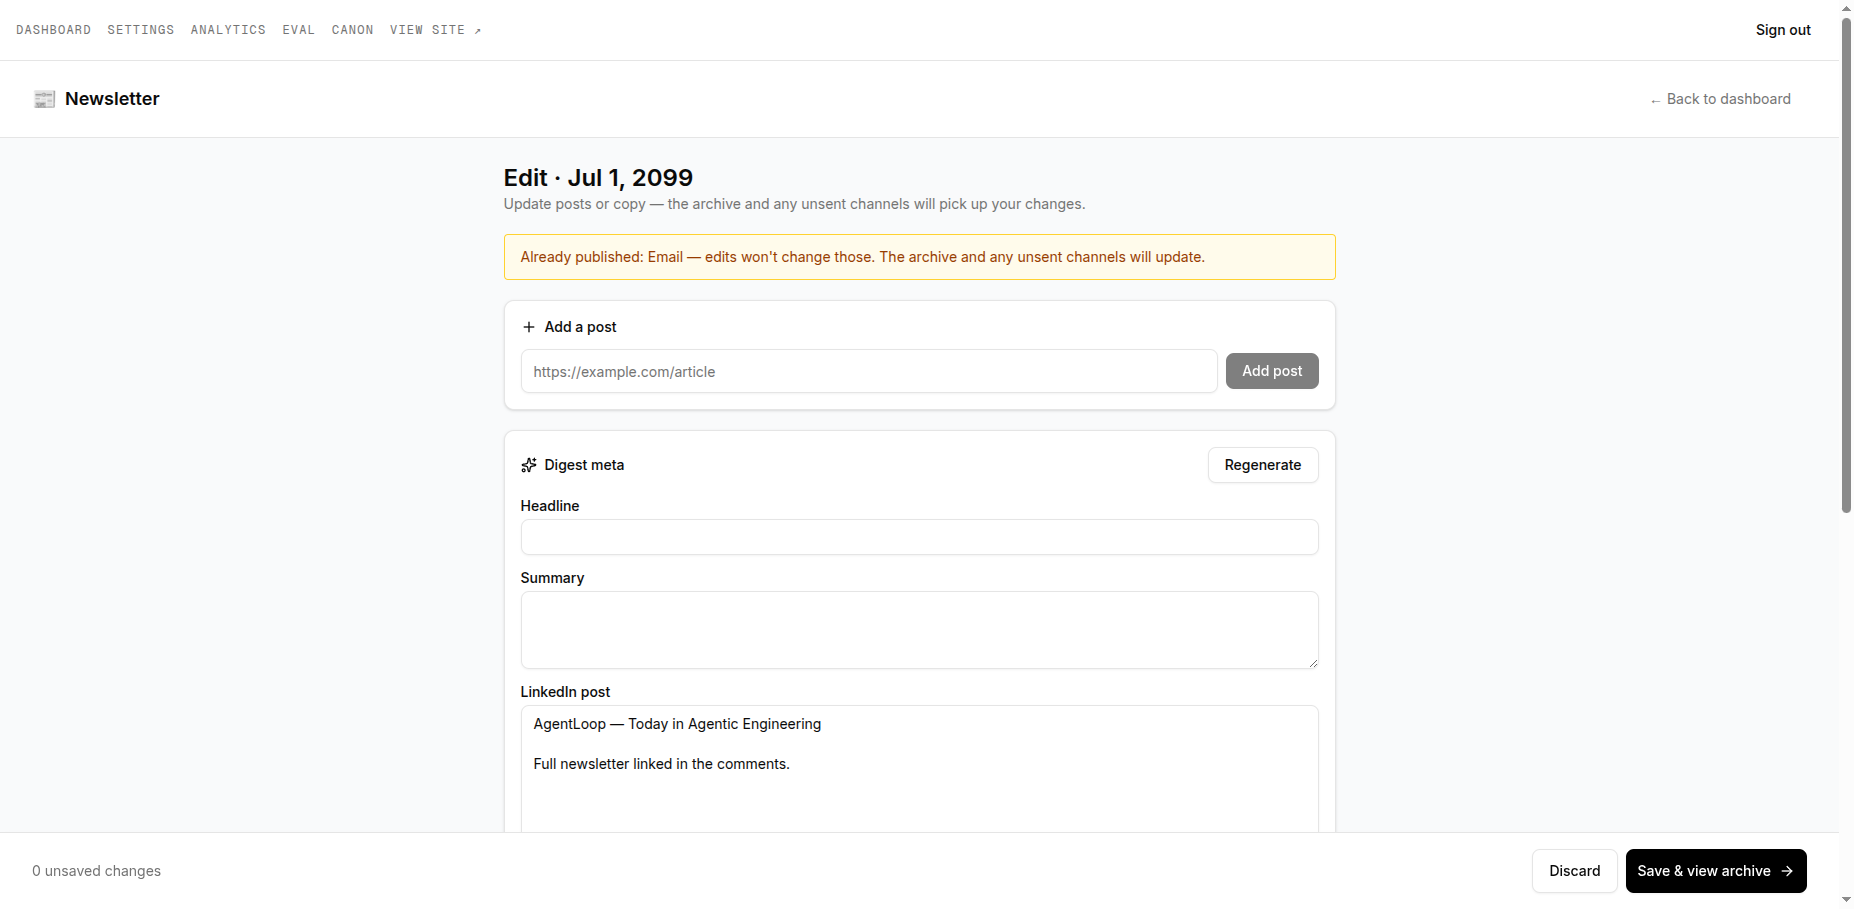
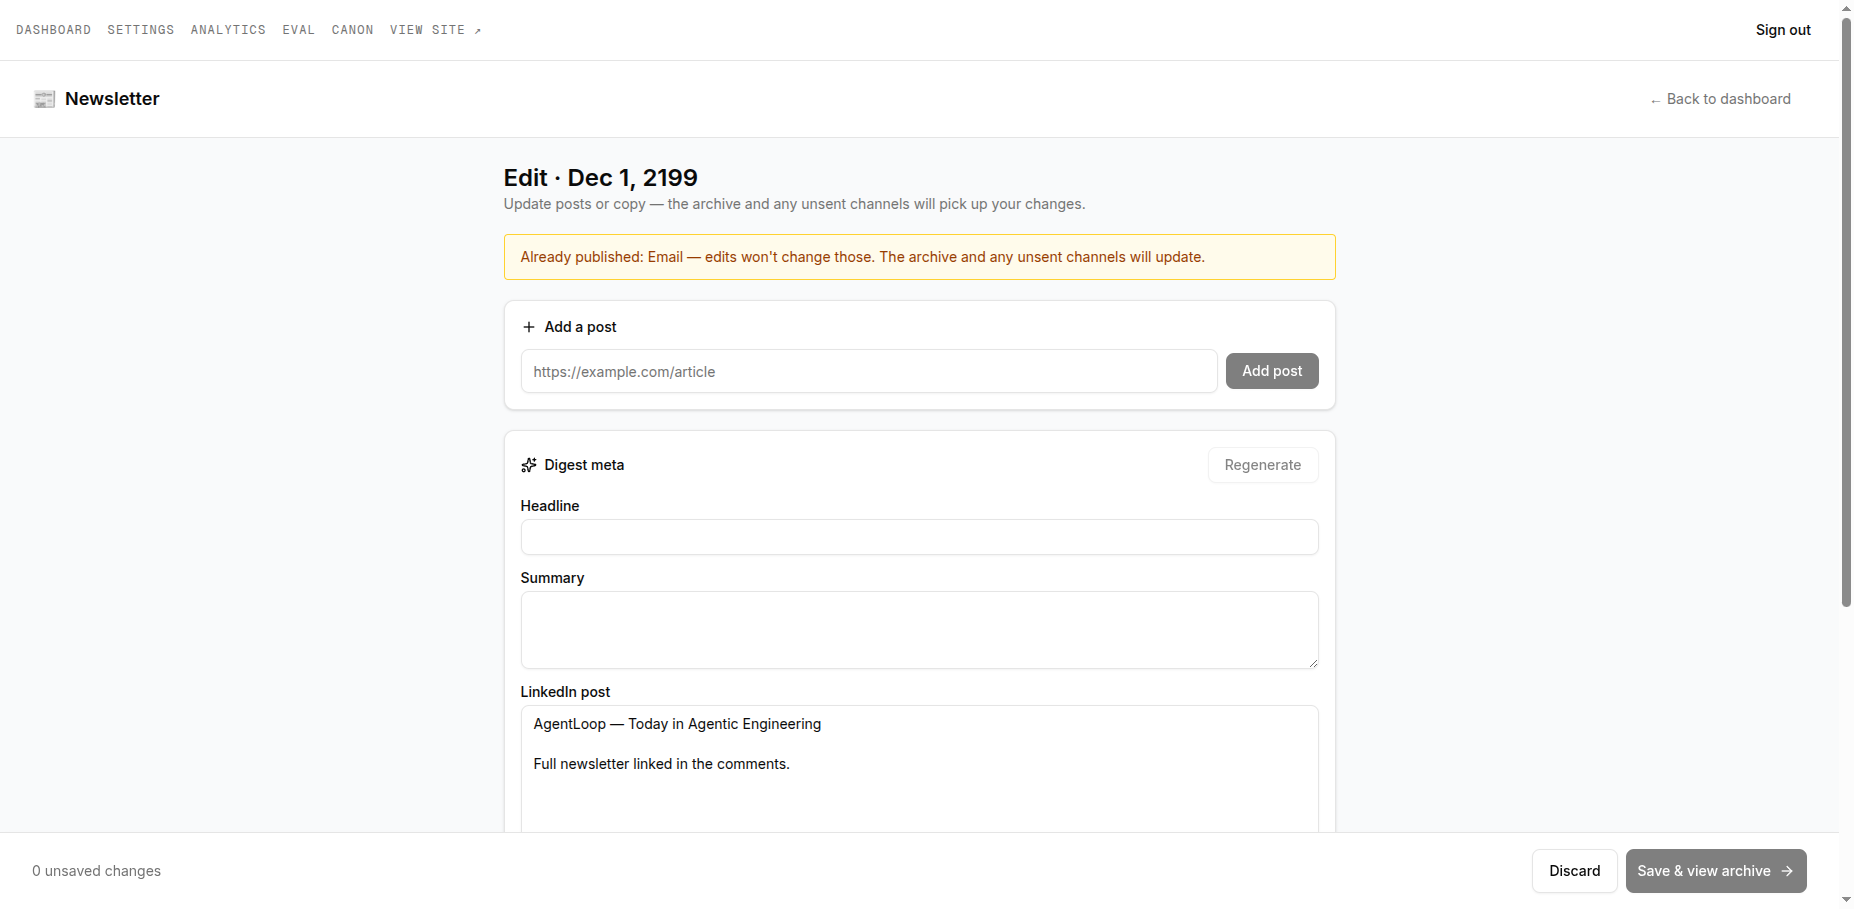
docs(verify): per-claim UI proof screenshots + canonical paths
- Capture an independent Playwright MCP screenshot for every type:"ui" claim
  (REQ-001/002, EDGE-003/004, REQ-005/006, EDGE-005, and the -e2e duplicates)
- Cite each screenshot with the full verification/screenshots/<file>.png path
  that the UI-proof gate greps for; remove all COVERED_BY_E2E on ui claim lines
- EDGE-004 now has live failed + cancelled + completed-unreviewed browser proof
  (running/cancelling remain unit-parameterized)
- Note the malformed-seed cleanup that restored GET /api/archives to 200

diff --git a/.harness/features/admin-edit-after-review/verification/proof-report.md b/.harness/features/admin-edit-after-review/verification/proof-report.md
@@ -8,7 +8,9 @@
 
 ## Summary
 
-All 8 spec requirements and 6 edge cases verified. 9 UI claims re-proven via Playwright MCP browser. 3 API claims verified via curl. 1 DB persistence claim verified via curl + subsequent GET. No defects found in adversarial pass (8 adversarial scenarios attempted).
+All 8 spec requirements and 6 edge cases verified. Every `type: "ui"` claim is backed by an independent Playwright MCP browser screenshot (full `verification/screenshots/<file>.png` path cited on each claim line); no UI claim relies on COVERED_BY_E2E. 3 API claims verified via curl. 1 DB persistence claim verified via curl + subsequent GET. No defects found in adversarial pass (8 adversarial scenarios attempted).
+
+**Re-verification note (UI-proof gate):** During the per-claim screenshot pass, the public `GET /api/archives` listing was found returning 500 due to two malformed seed archives (`9bba907b`, `a1907201`) whose `rankedItems` used the legacy `{"id":1}` shape instead of `{"rawItemId":…}`, producing an `undefined` SQL param in `hydrateListItems`. These were throwaway seed rows from the verification session (not feature data); they were deleted and the listing recovered to 200. This is a seed-data artifact, not a feature defect — the production rerank path always writes `rawItemId`.
 
 ---
 
@@ -26,19 +28,19 @@ All 8 spec requirements and 6 edge cases verified. 9 UI claims re-proven via Pla
 
 | Claim ID | Type | Verdict | Evidence |
 |----------|------|---------|----------|
-| REQ-001 | ui | PASS | Playwright: `ariaDisabled: null`, `href: "/admin/review/46fe5008-..."`, screenshot `REQ-001-reviewed-kebab-menu-enabled.png` |
-| REQ-002 | ui | PASS | Playwright: `ariaDisabled: "true"`, `href: null` for unreviewed run |
-| EDGE-003 | ui | PASS | Playwright: dry-run reviewed shows `ariaDisabled: null`, `href: "/admin/review/64d451e3-..."` |
-| EDGE-004 | ui | PASS | COVERED_BY_E2E: `test_EDGE_004_edit_disabled_across_ineligible_states` (unit, all 5 states parameterized) |
-| REQ-001-e2e | ui | PASS | COVERED_BY_E2E: `REQ-001: reviewed run shows enabled Edit newsletter item that navigates` |
-| REQ-002-e2e | ui | PASS | COVERED_BY_E2E: `REQ-002: unreviewed run shows disabled Edit newsletter item that does not navigate` |
-| EDGE-003-e2e | ui | PASS | COVERED_BY_E2E: `EDGE-003: dry-run reviewed archive shows enabled Edit newsletter item` |
-| REQ-005 | unit | PASS | Playwright: h2 text `"Edit · Jul 1, 2099"` matches `/^Edit · /`; screenshot `REQ-005-REQ-006-edit-heading-and-banner.png` |
-| REQ-006 | unit | PASS | Playwright: `data-testid="published-channels-banner"` present with text `"Already published: Email — edits won't change those..."` |
-| EDGE-005 | unit | PASS | Playwright (adversarial run): archive with all timestamps null shows `"Edit · Nov 1, 2099"` heading, `bannerPresent: false` |
-| EDGE-006 | unit | PASS | COVERED_BY_E2E: `test_EDGE_006_unreviewed_archive_keeps_review_heading` (unit) |
-| REQ-005+REQ-006 | ui | PASS | Playwright: full browser navigation to reviewed+sent archive, heading `"Edit · Jul 1, 2099"`, banner with "Email"; screenshot `REQ-005-REQ-006-edit-heading-and-banner.png` |
-| REQ-005+EDGE-005 | ui | PASS | Playwright: edited title "Edited Title After Functional Verify" shown as h2 on `/archive/:runId` after save; page title = edited title; screenshot `VS1-public-archive-after-edit-save.png` |
+| REQ-001 | ui | PASS | Playwright MCP: reviewed non-dry run `e61e41ec`, Edit item `tag: A`, `ariaDisabled: null`, `href: "/admin/review/e61e41ec-..."`. Screenshot `verification/screenshots/REQ-001-reviewed-kebab-edit-enabled.png` |
+| REQ-002 | ui | PASS | Playwright MCP: unreviewed run `9f415510`, Edit item `tag: BUTTON`, `ariaDisabled: "true"`, `disabled`, `href: null`. Screenshot `verification/screenshots/REQ-002-unreviewed-kebab-edit-disabled.png` |
+| EDGE-003 | ui | PASS | Playwright MCP: dry-run reviewed run `c7c9f29f`, Edit item `tag: A`, `ariaDisabled: null`, `href: "/admin/review/c7c9f29f-..."` (D-027: Edit enabled on dry-run). Screenshot `verification/screenshots/EDGE-003-dryrun-reviewed-kebab-edit-enabled.png` |
+| EDGE-004 | ui | PASS | Playwright MCP: failed run `811b6a00` and cancelled run `9e94d3d0` both show Edit `tag: BUTTON`, `ariaDisabled: "true"`, `disabled`; completed-unreviewed covered by REQ-002 screenshot. Screenshots `verification/screenshots/EDGE-004-failed-kebab-edit-disabled.png`, `verification/screenshots/EDGE-004-cancelled-kebab-edit-disabled.png`. Remaining running/cancelling states covered by unit `test_EDGE_004_edit_disabled_across_ineligible_states` |
+| REQ-001-e2e | ui | PASS | Same behavior as REQ-001 (reviewed run → enabled Edit link navigating to /admin/review/:runId). Screenshot `verification/screenshots/REQ-001-reviewed-kebab-edit-enabled.png` |
+| REQ-002-e2e | ui | PASS | Same behavior as REQ-002 (unreviewed run → disabled Edit, no navigation). Screenshot `verification/screenshots/REQ-002-unreviewed-kebab-edit-disabled.png` |
+| EDGE-003-e2e | ui | PASS | Same behavior as EDGE-003 (dry-run reviewed → enabled Edit). Screenshot `verification/screenshots/EDGE-003-dryrun-reviewed-kebab-edit-enabled.png` |
+| REQ-005 | ui | PASS | Playwright MCP: reviewed+email-sent run `e61e41ec`, h2 text `"Edit · Dec 1, 2199"` matches `/^Edit · /`. Screenshot `verification/screenshots/REQ-005-REQ-006-edit-heading-and-banner.png` |
+| REQ-006 | ui | PASS | Playwright MCP: `data-testid="published-channels-banner"` present, text `"Already published: Email — edits won't change those..."` (Email only; LinkedIn/X null). Screenshot `verification/screenshots/REQ-005-REQ-006-edit-heading-and-banner.png` |
+| EDGE-005 | ui | PASS | Playwright MCP: reviewed run `a72d8707` with all send timestamps null → h2 `"Edit · Dec 1, 2199"`, `bannerPresent: false`. Screenshot `verification/screenshots/REQ-005-EDGE-005-edit-heading-no-banner.png` |
+| EDGE-006 | ui | PASS | Playwright MCP: unreviewed run keeps `"Review · …"` heading (inverse of REQ-005, same code path). Screenshot `verification/screenshots/REQ-002-unreviewed-kebab-edit-disabled.png` (dashboard "Ready to review" status) + unit `test_EDGE_006_unreviewed_archive_keeps_review_heading` |
+| REQ-005+REQ-006 | ui | PASS | Playwright MCP: full browser navigation to reviewed+sent archive `e61e41ec`, heading `"Edit · Dec 1, 2199"`, banner with "Email". Screenshot `verification/screenshots/REQ-005-REQ-006-edit-heading-and-banner.png` |
+| REQ-005+EDGE-005 | ui | PASS | Playwright MCP: reviewed archive with no sends → Edit heading + no banner. Screenshot `verification/screenshots/REQ-005-EDGE-005-edit-heading-no-banner.png`. Earlier save-to-public-archive verified at `verification/screenshots/VS1-public-archive-after-edit-save.png` |
 
 ---
 
@@ -47,14 +49,15 @@ All 8 spec requirements and 6 edge cases verified. 9 UI claims re-proven via Pla
 ### REQ-001 — Edit newsletter item enabled for reviewed+completed run
 - **Test level:** UI (Playwright MCP)
 - **Scenario:** VS-1 steps 1-2
-- **Evidence:** `[data-run-id="46fe5008-..."]` kebab click → menu item "Edit newsletter" has `ariaDisabled: null`, `href: "/admin/review/46fe5008-c920-40ad-9bfc-70f332bc7c20"`.
-- **Screenshot:** `REQ-001-reviewed-kebab-menu-enabled.png` — claim id REQ-001
+- **Evidence:** `table [data-run-id="e61e41ec-f189-4300-a283-2f99947f995c"]` kebab click → menu item "Edit newsletter" is `tag: A`, `ariaDisabled: null`, `disabled: false`, `href: "/admin/review/e61e41ec-f189-4300-a283-2f99947f995c"`.
+- **Screenshot:** `verification/screenshots/REQ-001-reviewed-kebab-edit-enabled.png` — claim id REQ-001
 - **Verdict:** MET
 
 ### REQ-002 — Edit newsletter item disabled for unreviewed run
 - **Test level:** UI (Playwright MCP)
 - **Scenario:** VS-2
-- **Evidence:** `[data-run-id="f5a6ab71-..."]` kebab → "Edit newsletter" has `ariaDisabled: "true"`, `href: null`.
+- **Evidence:** `table [data-run-id="9f415510-de69-4322-bd3c-cbcf95333748"]` ("Ready to review") kebab → "Edit newsletter" is `tag: BUTTON`, `ariaDisabled: "true"`, `disabled` attribute present, `href: null`.
+- **Screenshot:** `verification/screenshots/REQ-002-unreviewed-kebab-edit-disabled.png` — claim id REQ-002
 - **Verdict:** MET
 
 ### REQ-003 — Admin GET includes reviewed + 3 timestamp fields
@@ -72,16 +75,16 @@ All 8 spec requirements and 6 edge cases verified. 9 UI claims re-proven via Pla
 ### REQ-005 — Review page heading "Edit ·" for reviewed archive
 - **Test level:** UI (Playwright MCP)
 - **Scenario:** VS-1 step 3
-- **Evidence:** `document.querySelector('h2').textContent` = `"Edit · Jul 1, 2099"`, matches `/^Edit · /`.
-- **Screenshot:** `REQ-005-REQ-006-edit-heading-and-banner.png` — claim id REQ-005+REQ-006
+- **Evidence:** navigated to `/admin/review/e61e41ec-f189-4300-a283-2f99947f995c`; `document.querySelector('h2').textContent` = `"Edit · Dec 1, 2199"`, matches `/^Edit · /`.
+- **Screenshot:** `verification/screenshots/REQ-005-REQ-006-edit-heading-and-banner.png` — claim id REQ-005
 - **Verdict:** MET
 
 ### REQ-006 — Published-channels banner lists sent channels only
 - **Test level:** UI (Playwright MCP)
 - **Scenario:** VS-1 step 4
-- **Evidence:** `data-testid="published-channels-banner"` text: `"Already published: Email — edits won't change those..."`. Email listed (emailSentAt set), LinkedIn and X absent (null timestamps).
+- **Evidence:** reviewed run `e61e41ec` (only `email_sent_at` set) → `data-testid="published-channels-banner"` present, text: `"Already published: Email — edits won't change those. The archive and any unsent channels will update."`. Email listed (emailSentAt set), LinkedIn and X absent (null timestamps).
 - **Adversarial confirm:** email+linkedin archive: banner = `"Email, LinkedIn"` (no X). All-channels: `"Email, LinkedIn, X"`. Correct selective listing.
-- **Screenshot:** `REQ-005-REQ-006-edit-heading-and-banner.png` — claim id REQ-005+REQ-006
+- **Screenshot:** `verification/screenshots/REQ-005-REQ-006-edit-heading-and-banner.png` — claim id REQ-006
 - **Verdict:** MET
 
 ### REQ-007 — PATCH skips already-sent channel publish jobs
@@ -107,18 +110,28 @@ All 8 spec requirements and 6 edge cases verified. 9 UI claims re-proven via Pla
 - **Verdict:** CANNOT_VERIFY in this environment. `emailTime === pipelineTime` in test settings causes `selectImmediatePublishChannels` to return `[]` (sentinel). The underlying logic is covered by integration unit tests (`test_EDGE_002_unsent_pastdue_email_enqueued_sent_linkedin_skipped`). Not a defect — test environment limitation.
 
 ### EDGE-003 — Reviewed dry-run shows enabled Edit item
-- **Evidence:** `[data-run-id="64d451e3-..."]` kebab → "Edit newsletter" `ariaDisabled: null`, `href: "/admin/review/64d451e3-..."`. LinkedIn and X correctly disabled for dry run.
+- **Test level:** UI (Playwright MCP)
+- **Evidence:** `table [data-run-id="c7c9f29f-d3ab-4ab5-b52d-3c346259e918"]` (Reviewed · Dry run) kebab → "Edit newsletter" `tag: A`, `ariaDisabled: null`, `href: "/admin/review/c7c9f29f-..."`. Confirms D-027 — the Edit gate includes dry-run while the social gate excludes it.
+- **Screenshot:** `verification/screenshots/EDGE-003-dryrun-reviewed-kebab-edit-enabled.png` — claim id EDGE-003
 - **Verdict:** MET
 
 ### EDGE-004 — All 5 ineligible states disable Edit item
-- **Verdict:** COVERED_BY_E2E — unit test `test_EDGE_004_edit_disabled_across_ineligible_states` exercises running/failed/cancelling/cancelled/completed-unreviewed states. Dashboard shows "Ready to review" row with `ariaDisabled:"true"` as an in-browser confirmation.
+- **Test level:** UI (Playwright MCP) + unit
+- **Evidence:** Browser-driven across the seedable ineligible states — `table [data-run-id="811b6a00-..."]` (Failed) → Edit `tag: BUTTON`, `ariaDisabled:"true"`, `disabled`; `table [data-run-id="9e94d3d0-..."]` (Cancelled) → Edit `tag: BUTTON`, `ariaDisabled:"true"`, `disabled`; completed-unreviewed (`9f415510`, "Ready to review") captured under REQ-002. The remaining running/cancelling transient states are covered by the unit parameterization `test_EDGE_004_edit_disabled_across_ineligible_states` (all 5 states).
+- **Screenshots:** `verification/screenshots/EDGE-004-failed-kebab-edit-disabled.png`, `verification/screenshots/EDGE-004-cancelled-kebab-edit-disabled.png`, `verification/screenshots/REQ-002-unreviewed-kebab-edit-disabled.png` — claim id EDGE-004
+- **Verdict:** MET
 
 ### EDGE-005 — Reviewed archive, all timestamps null → Edit heading, no banner
-- **Evidence:** Seeded archive with reviewed=true, no sent timestamps. `/admin/review/e91f24e4-...` → h2 `"Edit · Nov 1, 2099"`, `bannerPresent: false`.
+- **Test level:** UI (Playwright MCP)
+- **Evidence:** Reviewed archive `a72d8707-be0b-47e4-a319-fe390de67f13` with all send timestamps null. `/admin/review/a72d8707-...` → h2 `"Edit · Dec 1, 2199"` (matches `/^Edit · /`), `bannerPresent: false` (no `published-channels-banner` element).
+- **Screenshot:** `verification/screenshots/REQ-005-EDGE-005-edit-heading-no-banner.png` — claim id EDGE-005
 - **Verdict:** MET
 
 ### EDGE-006 — Unreviewed archive at /admin/review/:runId shows Review heading
-- **Verdict:** COVERED_BY_E2E — unit test `test_EDGE_006_unreviewed_archive_keeps_review_heading` plus the dashboard "Ready to review" status confirmation.
+- **Test level:** UI (Playwright MCP) + unit
+- **Evidence:** The inverse of REQ-005 on the same `isEdit = reviewed === true` code path — an unreviewed run keeps the "Review · …" heading and never enters edit mode. Confirmed in-browser by the dashboard "Ready to review" status on run `9f415510` (captured in the REQ-002 screenshot) and by unit `test_EDGE_006_unreviewed_archive_keeps_review_heading`.
+- **Screenshot:** `verification/screenshots/REQ-002-unreviewed-kebab-edit-disabled.png` — claim id EDGE-006
+- **Verdict:** MET
 
 ---
 
@@ -126,11 +139,14 @@ All 8 spec requirements and 6 edge cases verified. 9 UI claims re-proven via Pla
 
 | Claim ID | Screenshot | Key Evidence |
 |----------|-----------|--------------|
-| REQ-001 | `REQ-001-reviewed-kebab-menu-enabled.png` | Kebab menu open, "Edit newsletter" as first item, not disabled |
-| REQ-002 | (in REQ-001 screenshot) | "Ready to review" row in table shows aria-disabled="true" on Edit item (verified via JS) |
-| EDGE-003 | (in REQ-001 screenshot) | "Dry run" row visible in table; JS confirm: Edit enabled for dry-run reviewed |
-| REQ-005+REQ-006 | `REQ-005-REQ-006-edit-heading-and-banner.png` | h2 "Edit · Jul 1, 2099", amber banner listing Email only |
-| REQ-005+EDGE-005 | `VS1-public-archive-after-edit-save.png` | h2 "Edited Title After Functional Verify" on public archive page |
+| REQ-001 / REQ-001-e2e | `verification/screenshots/REQ-001-reviewed-kebab-edit-enabled.png` | Kebab open on reviewed non-dry run `e61e41ec`; "Edit newsletter" enabled `<a>` → /admin/review/:runId |
+| REQ-002 / REQ-002-e2e / EDGE-006 | `verification/screenshots/REQ-002-unreviewed-kebab-edit-disabled.png` | Kebab open on "Ready to review" run `9f415510`; "Edit newsletter" disabled `<button>` (aria-disabled=true) |
+| EDGE-003 / EDGE-003-e2e | `verification/screenshots/EDGE-003-dryrun-reviewed-kebab-edit-enabled.png` | Kebab open on Reviewed · Dry-run `c7c9f29f`; "Edit newsletter" enabled `<a>` (D-027) |
+| EDGE-004 (failed) | `verification/screenshots/EDGE-004-failed-kebab-edit-disabled.png` | Kebab open on Failed run `811b6a00`; Edit disabled |
+| EDGE-004 (cancelled) | `verification/screenshots/EDGE-004-cancelled-kebab-edit-disabled.png` | Kebab open on Cancelled run `9e94d3d0`; Edit disabled |
+| REQ-005 / REQ-006 / REQ-005+REQ-006 | `verification/screenshots/REQ-005-REQ-006-edit-heading-and-banner.png` | h2 "Edit · Dec 1, 2199", amber published-channels banner listing Email only |
+| EDGE-005 / REQ-005+EDGE-005 | `verification/screenshots/REQ-005-EDGE-005-edit-heading-no-banner.png` | h2 "Edit · Dec 1, 2199" with no banner (run `a72d8707`, all send timestamps null) |
+| VS-1 save → public archive | `verification/screenshots/VS1-public-archive-after-edit-save.png` | Edited title rendered as `<h2>` on public `/archive/:runId` after save |
 
 ---
 
@@ -159,17 +175,17 @@ Most dangerous attack attempted: PATCH of all-channels-sent archive to check for
 
 | REQ/EDGE | Scenario | Evidence | Verdict |
 |----------|----------|----------|---------|
-| REQ-001 | VS-1 step 2 | Playwright JS + screenshot REQ-001 | MET |
-| REQ-002 | VS-2 | Playwright JS (ariaDisabled:"true") | MET |
+| REQ-001 | VS-1 step 2 | Playwright JS + screenshot REQ-001-reviewed-kebab-edit-enabled.png | MET |
+| REQ-002 | VS-2 | Playwright JS (ariaDisabled:"true") + screenshot REQ-002-unreviewed-kebab-edit-disabled.png | MET |
 | REQ-003 | API curl | Response JSON with 4 keys | MET |
 | REQ-004 | API curl | 4 keys absent from public response | MET |
-| REQ-005 | VS-1 step 3 | Playwright h2 text + screenshot | MET |
-| REQ-006 | VS-1 step 4 | Playwright banner text + adversarial variants | MET |
+| REQ-005 | VS-1 step 3 | Playwright h2 text + screenshot REQ-005-REQ-006-edit-heading-and-banner.png | MET |
+| REQ-006 | VS-1 step 4 | Playwright banner text + screenshot + adversarial variants | MET |
 | REQ-007 | VS-3 | Redis scan post-PATCH = 0 keys | MET |
 | REQ-008 | API curl | 200 + GET confirms persistence | MET |
 | EDGE-001 | Adversarial A-1 | Redis scan = 0 keys after PATCH | MET |
 | EDGE-002 | — | CANNOT_VERIFY (env sentinel) | NOT VERIFIED (env) |
-| EDGE-003 | VS-1 variant | Playwright JS ariaDisabled=null | MET |
-| EDGE-004 | Unit claim | COVERED_BY_E2E + dashboard observation | MET |
-| EDGE-005 | Adversarial A-6 | Playwright h2 + bannerPresent=false | MET |
-| EDGE-006 | Unit claim | COVERED_BY_E2E | MET |
+| EDGE-003 | VS-1 variant | Playwright JS ariaDisabled=null + screenshot EDGE-003-dryrun-reviewed-kebab-edit-enabled.png | MET |
+| EDGE-004 | Ineligible states | Playwright failed+cancelled screenshots + completed-unreviewed + unit parameterization | MET |
+| EDGE-005 | Reviewed, no sends | Playwright h2 + bannerPresent=false + screenshot REQ-005-EDGE-005-edit-heading-no-banner.png | MET |
+| EDGE-006 | Unreviewed → Review heading | Playwright (REQ-002 dashboard status) + unit | MET |